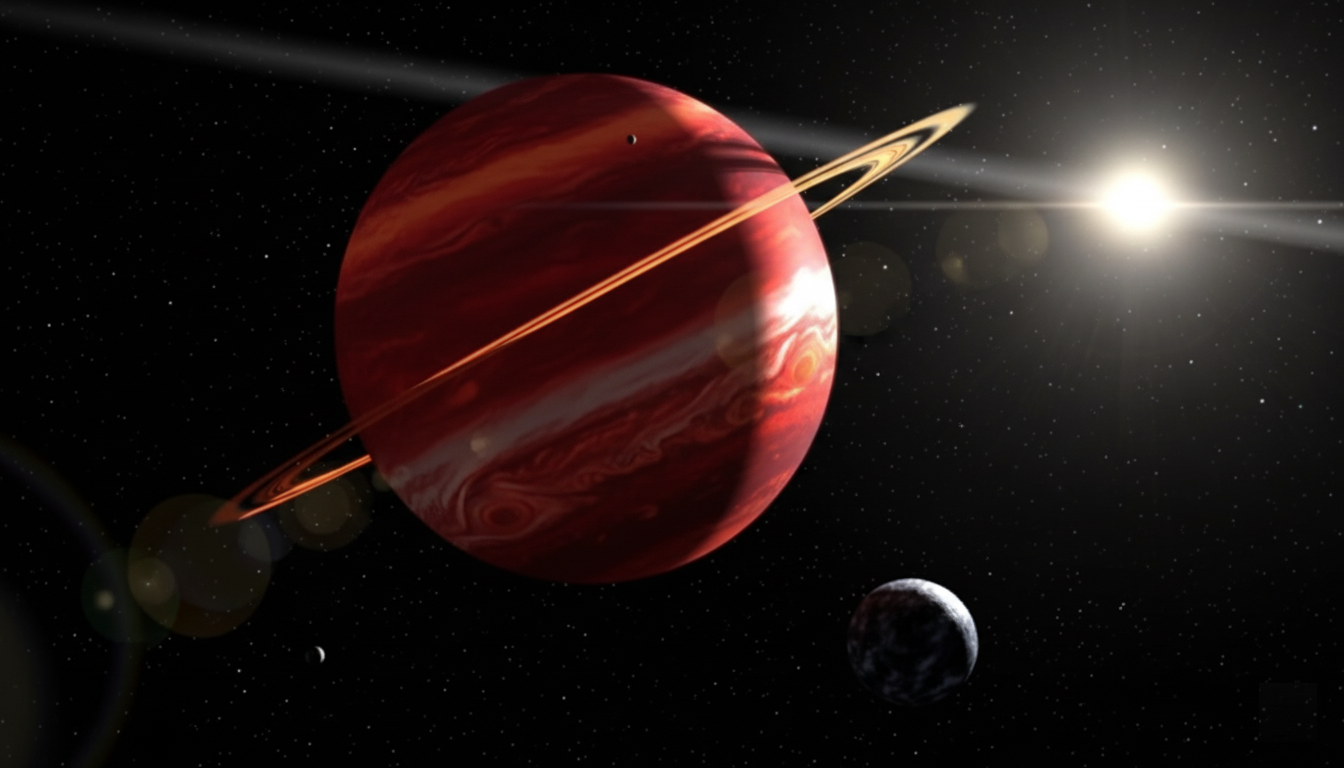
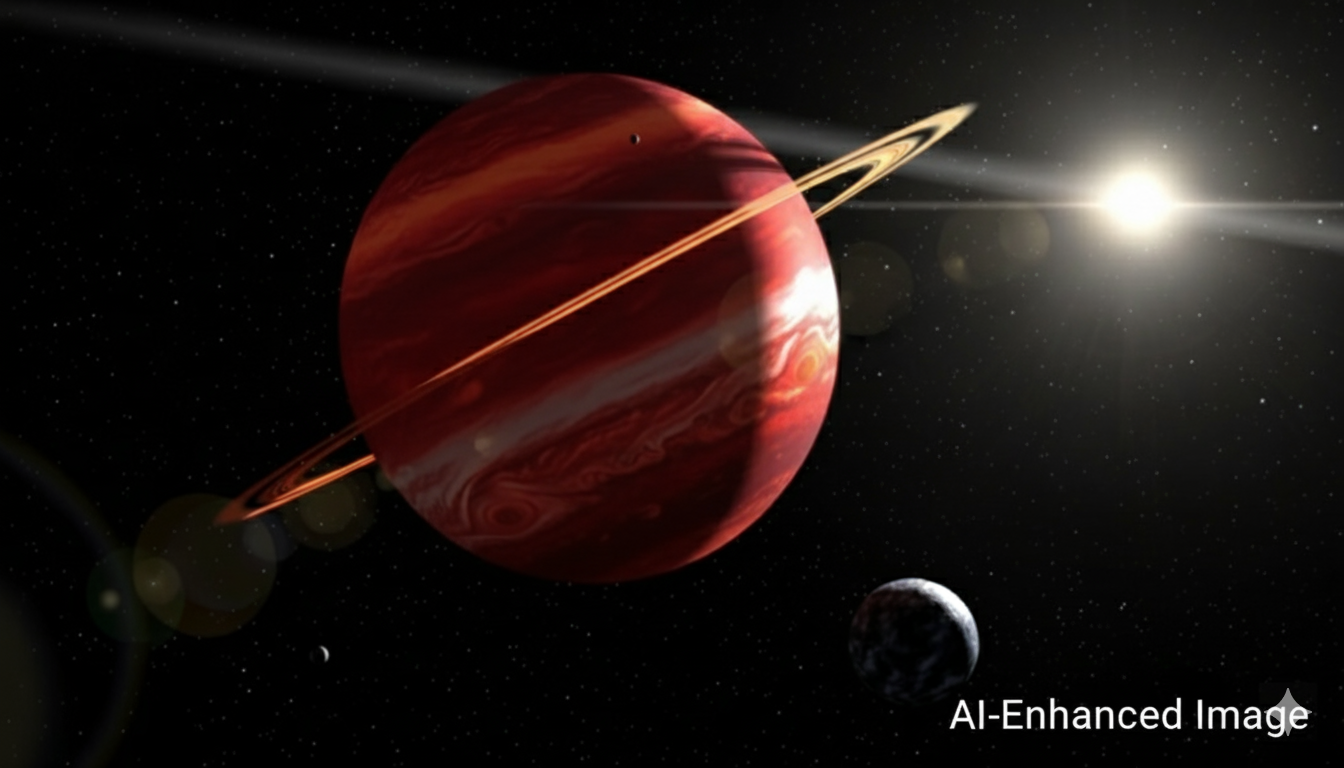
Caption
Added captions to images

Luiz F C

diff --git a/frontend/src/app/components/home/home.component.html b/frontend/src/app/components/home/home.component.html
@@ -3,6 +3,7 @@
     <div class="hero-overlay"></div>
     <div class="hero-content">
       <h1 class="fade-in">Shaping Tomorrow’s Exploration</h1>
+      <p></p>
       <p class="fade-in-delay">
         Our tool will revolutionize space exploration in search of exoplanets.
         Unlocking the secrets of the universe through innovation. The future of interstellar discovery starts here.
@@ -16,7 +17,7 @@
 
   <section #scrollTarget id="about" class="content-section" [@scrollAnimation]="states[0] || 'out'">
     <div class="section-container about-layout">
-      <div class="image-content">
+      <div class="flex flex-col items-center">
         <img src="assets/team-logo.png" alt="Chubby Rockets Logo" class="about-image"/>
       </div>
       <div class="text-content">

diff --git a/frontend/src/app/components/home/home.component.css b/frontend/src/app/components/home/home.component.css
@@ -105,7 +105,7 @@
 
 .about-image {
   max-width: 350px;
-  border-radius: 50%;
+  border-radius: 70%;
   background: var(--secondary-bg);
   box-shadow: 0 10px 30px rgba(0,0,0,0.3);
 }
